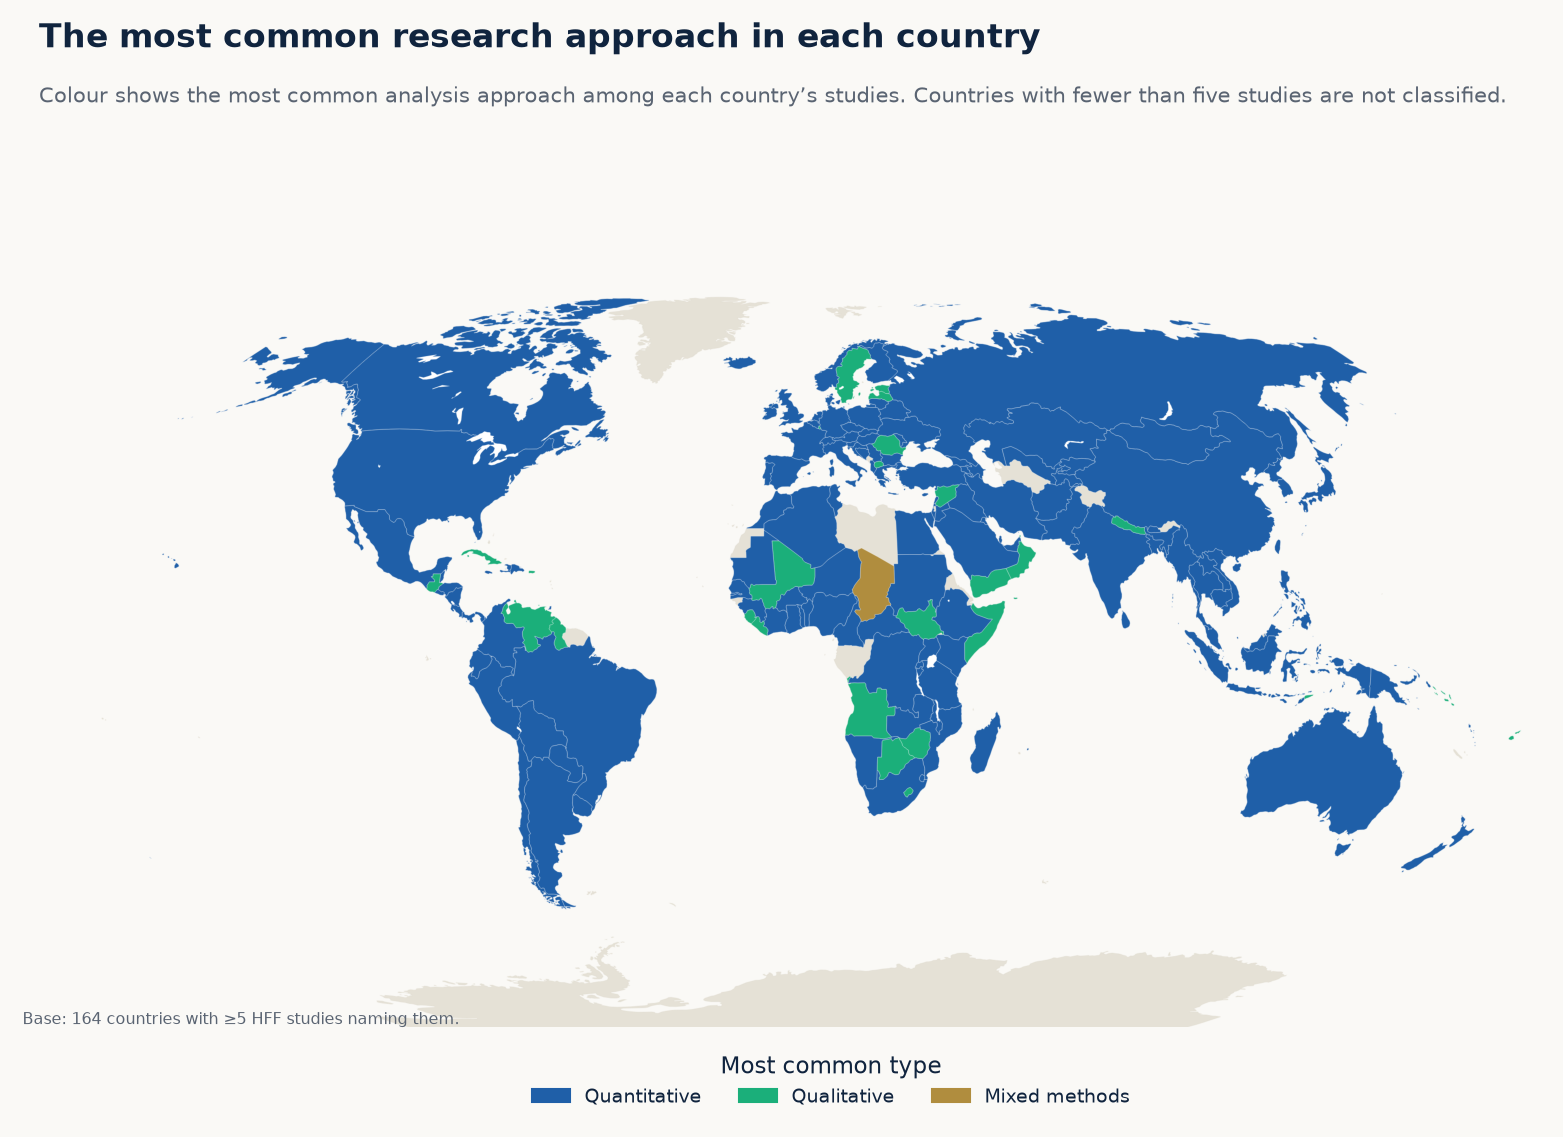
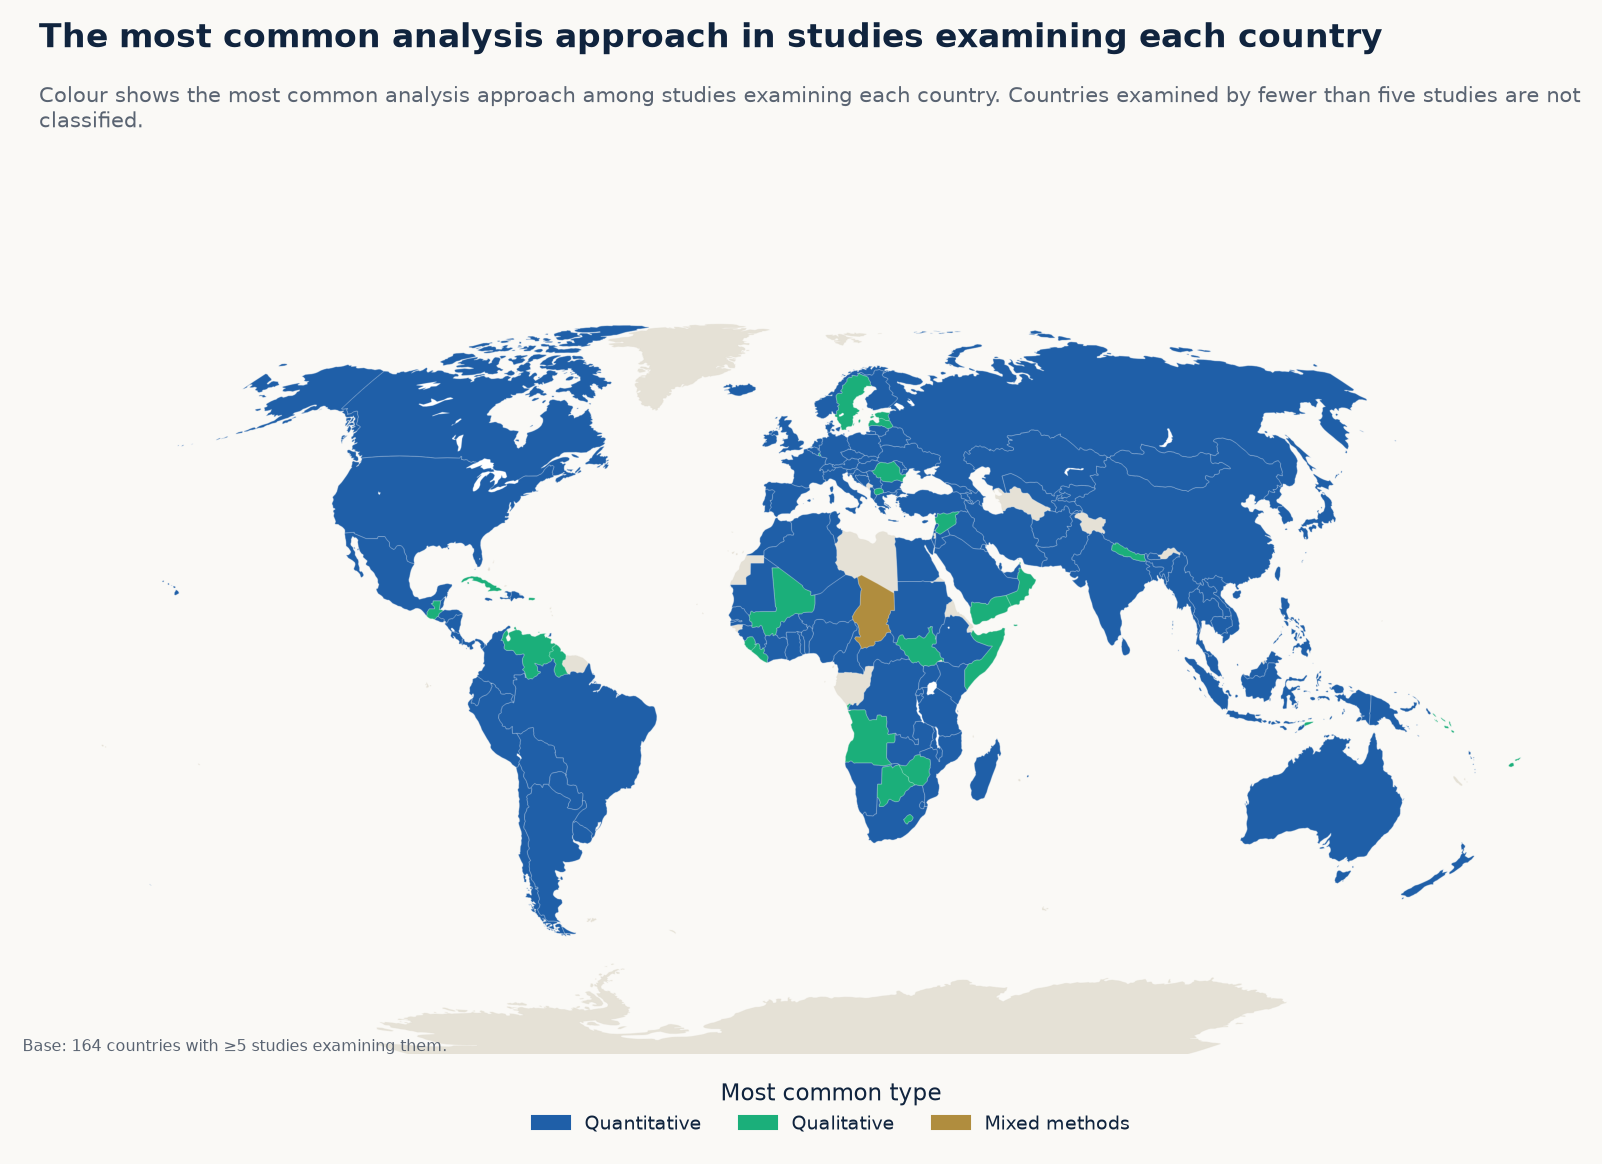
Hide the recency and analysis-approach maps; reword the latter
Hide fig_map_growth ("Which countries have more recent research?") and
fig_map_method from Geographic coverage after review (still built; via
HIDDEN_FIGS). fig_map_method keeps corrected wording in case it is shown
again: "The most common analysis approach in studies examining each
country", caption and technical note say "studies examining each
country", footer "studies examining them" instead of "HFF studies naming
them".

diff --git a/docs/index.html b/docs/index.html
@@ -11,7 +11,7 @@
      versions with SHA-384 integrity hashes verified by double fetch. -->
 <link rel="stylesheet" href="https://cdn.jsdelivr.net/npm/tom-select@2.3.1/dist/css/tom-select.min.css" integrity="sha384-krui876Mk6M6Lq6uj1SQo+u4MoImxFwCfwzWNU982QBMNci3VMZ3FoYSdUakJD5I" crossorigin="anonymous">
 <link rel="stylesheet" href="https://cdn.jsdelivr.net/npm/nouislider@15.8.1/dist/nouislider.min.css" integrity="sha384-PSZaVsyG9jDu8hFaSJev5s/9poIJlX7cuxSGdqCgXRHpo2DzIaZAyCd2rG/DJJmV" crossorigin="anonymous">
-<link rel="stylesheet" href="styles.css?v=2026-10-14f">
+<link rel="stylesheet" href="styles.css?v=2026-10-14g">
 </head>
 <body>
 
@@ -82,7 +82,7 @@
         <div class="card-body overview-analysis-body">
           <button class="overview-figure-button" id="ov-worldmap-open" type="button"
                   aria-label="Open the figure showing which countries the studies examine">
-            <img class="overview-analysis-figure" src="figures/fig_worldmap.png?v=2026-10-14f"
+            <img class="overview-analysis-figure" src="figures/fig_worldmap.png?v=2026-10-14g"
                  alt="World map showing which countries health financing studies examine">
           </button>
         </div>
@@ -95,7 +95,7 @@
         <div class="card-body overview-analysis-body">
           <button class="overview-figure-button" id="ov-function-open" type="button"
                   aria-label="Open the studies by financing function figure">
-            <img class="overview-analysis-figure" src="figures/fig_function_bar.png?v=2026-10-14f"
+            <img class="overview-analysis-figure" src="figures/fig_function_bar.png?v=2026-10-14g"
                  alt="Bar chart showing studies by health financing function">
           </button>
         </div>
@@ -108,7 +108,7 @@
         <div class="card-body overview-analysis-body">
           <button class="overview-figure-button" id="ov-disease-method-open" type="button"
                   aria-label="Open the figure showing how each disease area is evaluated">
-            <img class="overview-analysis-figure" src="figures/fig_disease_method.png?v=2026-10-14f"
+            <img class="overview-analysis-figure" src="figures/fig_disease_method.png?v=2026-10-14g"
                  alt="Heatmap showing the mix of financing functions evaluated within each disease area">
           </button>
         </div>
@@ -147,7 +147,7 @@
     <div class="theme-wrap">
       <div id="gal-index">
         <header class="thematic-hero">
-          <img class="thematic-hero-map" src="figures/fig_worldmap.png?v=2026-10-14f" alt="" aria-hidden="true">
+          <img class="thematic-hero-map" src="figures/fig_worldmap.png?v=2026-10-14g" alt="" aria-hidden="true">
           <div class="thematic-hero-copy">
             <div class="thematic-eyebrow">Thematic analysis</div>
             <h1>Explore key patterns in the global health financing evidence base.</h1>
@@ -741,7 +741,7 @@
 <script src="https://cdn.jsdelivr.net/npm/plotly.js-dist-min@2.35.2/plotly.min.js" integrity="sha384-cCVCZkAjYNxaYKbM8lsArLznDF/SvMFr1jcZrvOpSTCa0W40ZAdLzHCEulnUa5i7" crossorigin="anonymous"></script>
 <script src="https://cdn.jsdelivr.net/npm/tom-select@2.3.1/dist/js/tom-select.complete.min.js" integrity="sha384-cnROoUgVILyibe3J0zhzWoJ9p2WmdnK7j/BOTSWqVDbC1pVw2d+i6Q/1ESKJKCYf" crossorigin="anonymous"></script>
 <script src="https://cdn.jsdelivr.net/npm/nouislider@15.8.1/dist/nouislider.min.js" integrity="sha384-EcVTHT5RdDTvzbTIbNOtaNxNALeJYDgmv5Crp3NBmcdrCPrDnqp6I1+ETJ/FCFHI" crossorigin="anonymous"></script>
-<script type="module" src="app.js?v=2026-10-14f"></script>
+<script type="module" src="app.js?v=2026-10-14g"></script>
 
 </body>
 </html>

diff --git a/docs/app.js b/docs/app.js
@@ -1,6 +1,6 @@
 // Cache-busting build token — bump alongside index.html's ?v= query string
 // whenever app.js or the data files change.
-const BUILD = "2026-10-14f";
+const BUILD = "2026-10-14g";
 
 const CODED_COLS = ["study_design", "type_of_analysis", "data_type", "data_source",
   "unit_of_observation", "geo_scope", "era"];
@@ -3808,6 +3808,8 @@ if (typeof document !== "undefined") {
       "fig_outcome_other_themes_v5.png",
       // Hidden after review: function shares over time and outcome trends.
       "fig_function_time_lines.png", "fig_outcome_trend_v5.png", "fig_alluvial.png",
+      // Hidden after review: country recency and analysis-approach maps (Geographic coverage).
+      "fig_map_growth.png", "fig_map_method.png",
       // fig_function_outcome_themes.png replaces it, with "Other" split into themes.
       "fig_function_outcome_heatmap.png"]);
     GALLERY = (db.content.gallery || [])

diff --git a/docs/dex_hff/build_figures_v2_5.py b/docs/dex_hff/build_figures_v2_5.py
@@ -3517,7 +3517,7 @@ if HAVE_PLOTLY:
     fig.text(0.02, 0.925, D(mm_desc), fontsize=9.5, color=SUBHEAD_COLOR, ha="left", va="top", wrap=True)
     fig.text(0.02, 0.885, D(mm_finding), fontsize=10, fontweight="bold", color=INK, ha="left", va="top",
              wrap=True)
-    fig.text(0.01, 0.10, f"Base: {len(mm_modal):,} countries with ≥5 HFF studies naming them.",
+    fig.text(0.01, 0.10, f"Base: {len(mm_modal):,} countries with ≥5 studies examining them.",
              fontsize=7.6, color=SUBHEAD_COLOR, ha="left", va="bottom")
     fig.patch.set_facecolor(PAPER)
     fig.savefig(FIGS / "fig_map_method.png", dpi=150)
